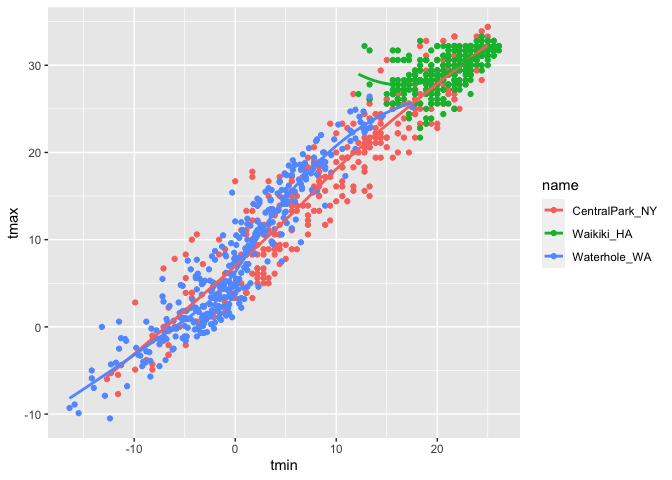
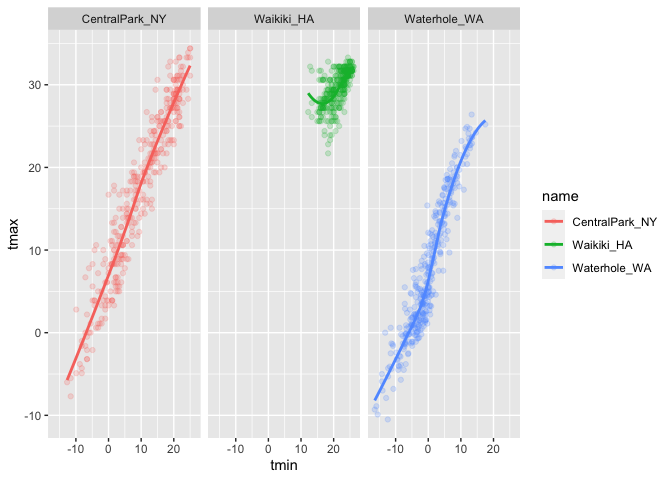
scatterplot and more

diff --git a/viz_1.md b/viz_1.md
@@ -159,8 +159,9 @@ Let’s facet same things!!
 ``` r
 weather_df %>%
   ggplot(aes(x = tmin, y = tmax, color = name)) +
-  geom_point() +
-  geom_smooth(se = FALSE)
+  geom_point(alpha =.2) +
+  geom_smooth(se = FALSE) +
+  facet_grid(.~name)
 ```
 
     ## `geom_smooth()` using method = 'loess' and formula 'y ~ x'
@@ -171,23 +172,50 @@ weather_df %>%
 
 ![](viz_1_files/figure-gfm/unnamed-chunk-8-1.png)<!-- -->
 
+let’s combine some elements and try a new plot.
+
 ``` r
-  facet_grid(. ~name)
+weather_df%>%
+  ggplot(aes(x = date, y = tmax, color = name))+
+  geom_point(aes(size = prcp), alpha = .5) +
+  geom_smooth(se = FALSE) +
+  facet_grid(.~ name)
 ```
 
-    ## <ggproto object: Class FacetGrid, Facet, gg>
-    ##     compute_layout: function
-    ##     draw_back: function
-    ##     draw_front: function
-    ##     draw_labels: function
-    ##     draw_panels: function
-    ##     finish_data: function
-    ##     init_scales: function
-    ##     map_data: function
-    ##     params: list
-    ##     setup_data: function
-    ##     setup_params: function
-    ##     shrink: TRUE
-    ##     train_scales: function
-    ##     vars: function
-    ##     super:  <ggproto object: Class FacetGrid, Facet, gg>
+    ## `geom_smooth()` using method = 'loess' and formula 'y ~ x'
+
+    ## Warning: Removed 3 rows containing non-finite values (stat_smooth).
+
+    ## Warning: Removed 3 rows containing missing values (geom_point).
+
+![](viz_1_files/figure-gfm/unnamed-chunk-9-1.png)<!-- -->
+
+## Some small notes
+
+How many geoms have to exist?
+
+You can have whatever geoms you want\>
+
+``` r
+weather_df%>%
+  ggplot(aes(x = tmin, y =tmax, color = name)) +
+  geom_smooth(se = FALSE)
+```
+
+    ## `geom_smooth()` using method = 'loess' and formula 'y ~ x'
+
+    ## Warning: Removed 15 rows containing non-finite values (stat_smooth).
+
+![](viz_1_files/figure-gfm/unnamed-chunk-10-1.png)<!-- -->
+
+You can use a neat geom!
+
+``` r
+weather_df %>%
+  ggplot(aes(x = tmin, y = tmax)) +
+  geom_hex()
+```
+
+    ## Warning: Removed 15 rows containing non-finite values (stat_binhex).
+
+![](viz_1_files/figure-gfm/unnamed-chunk-11-1.png)<!-- -->
